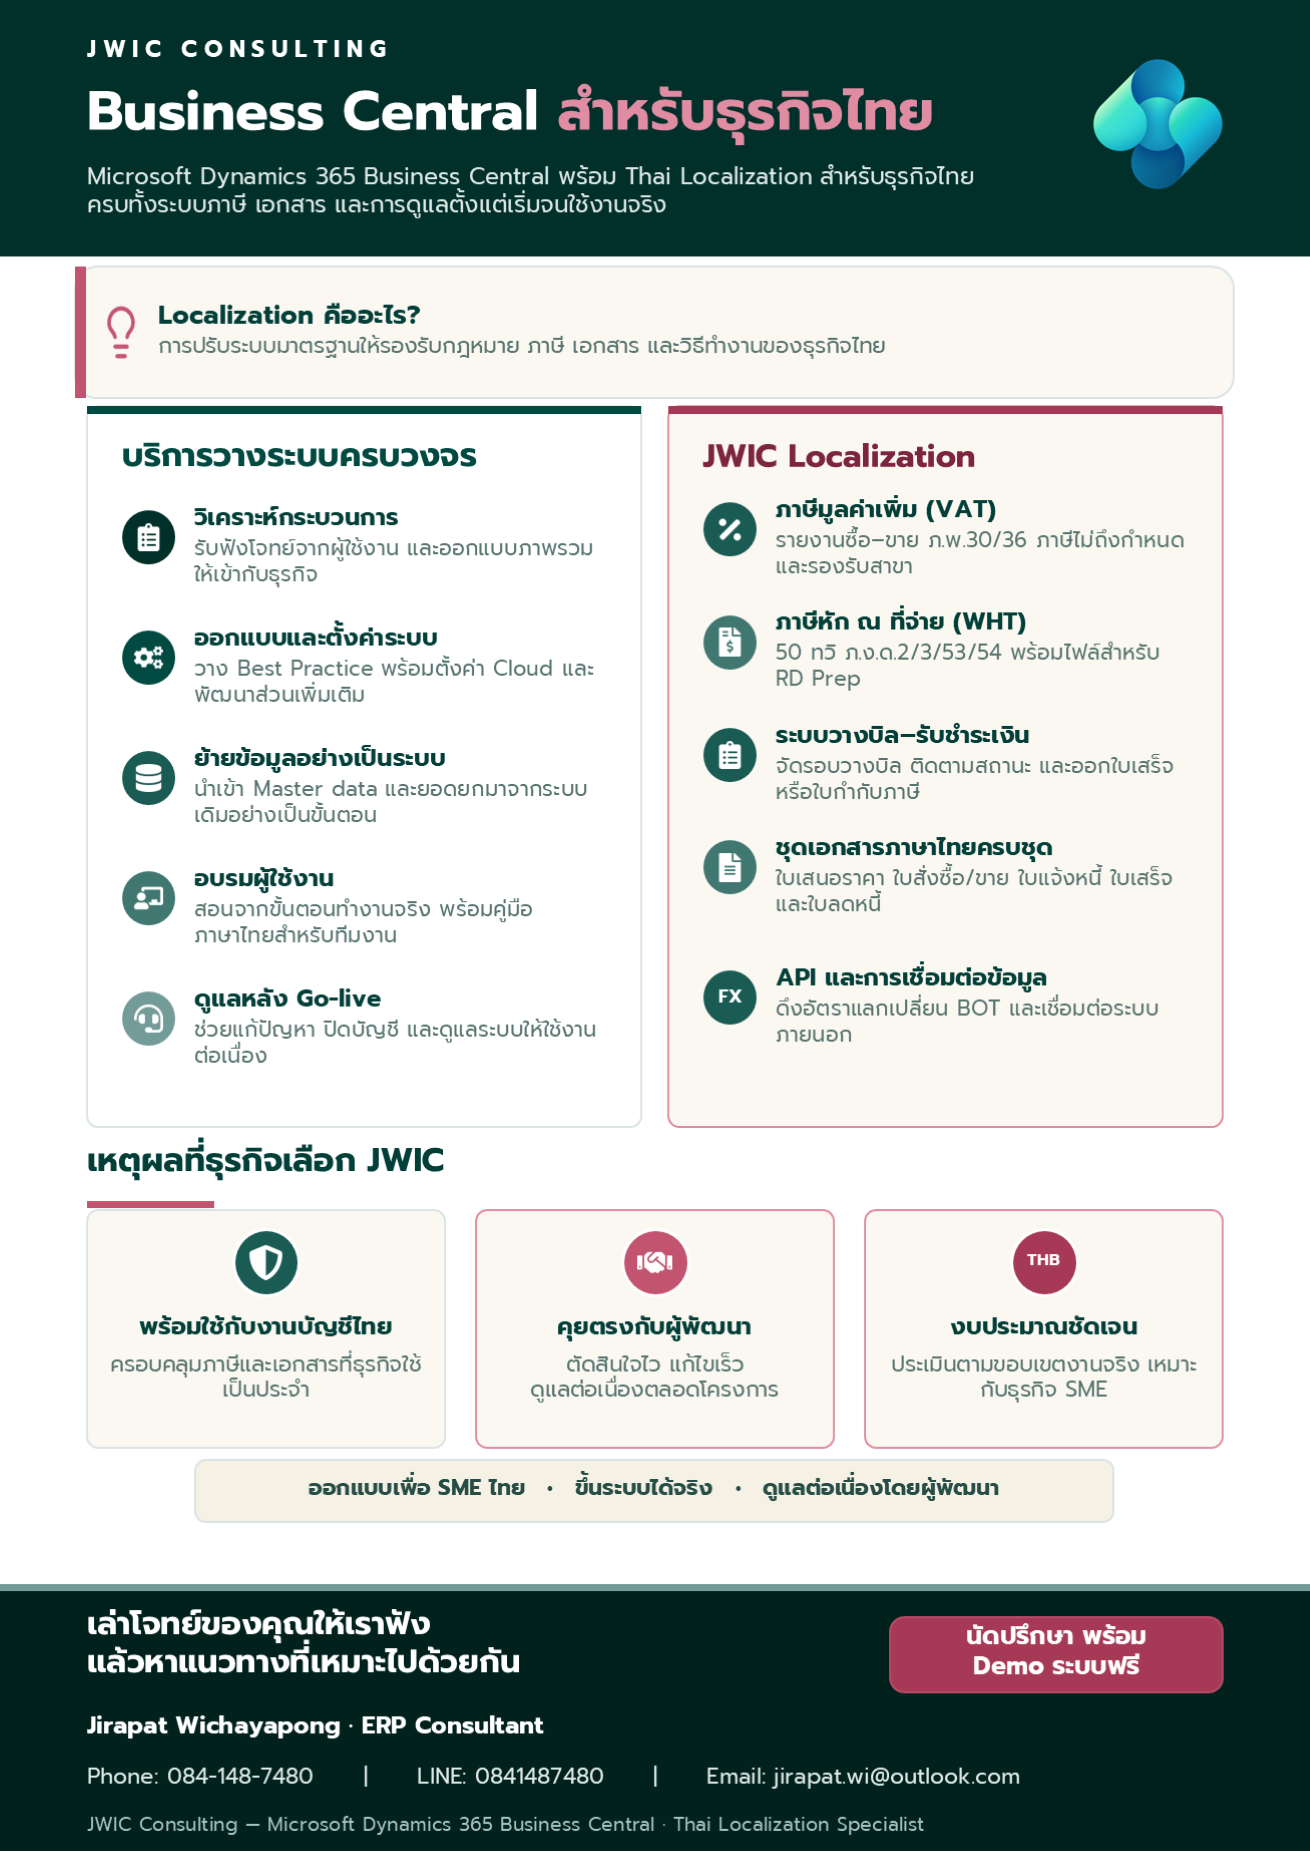
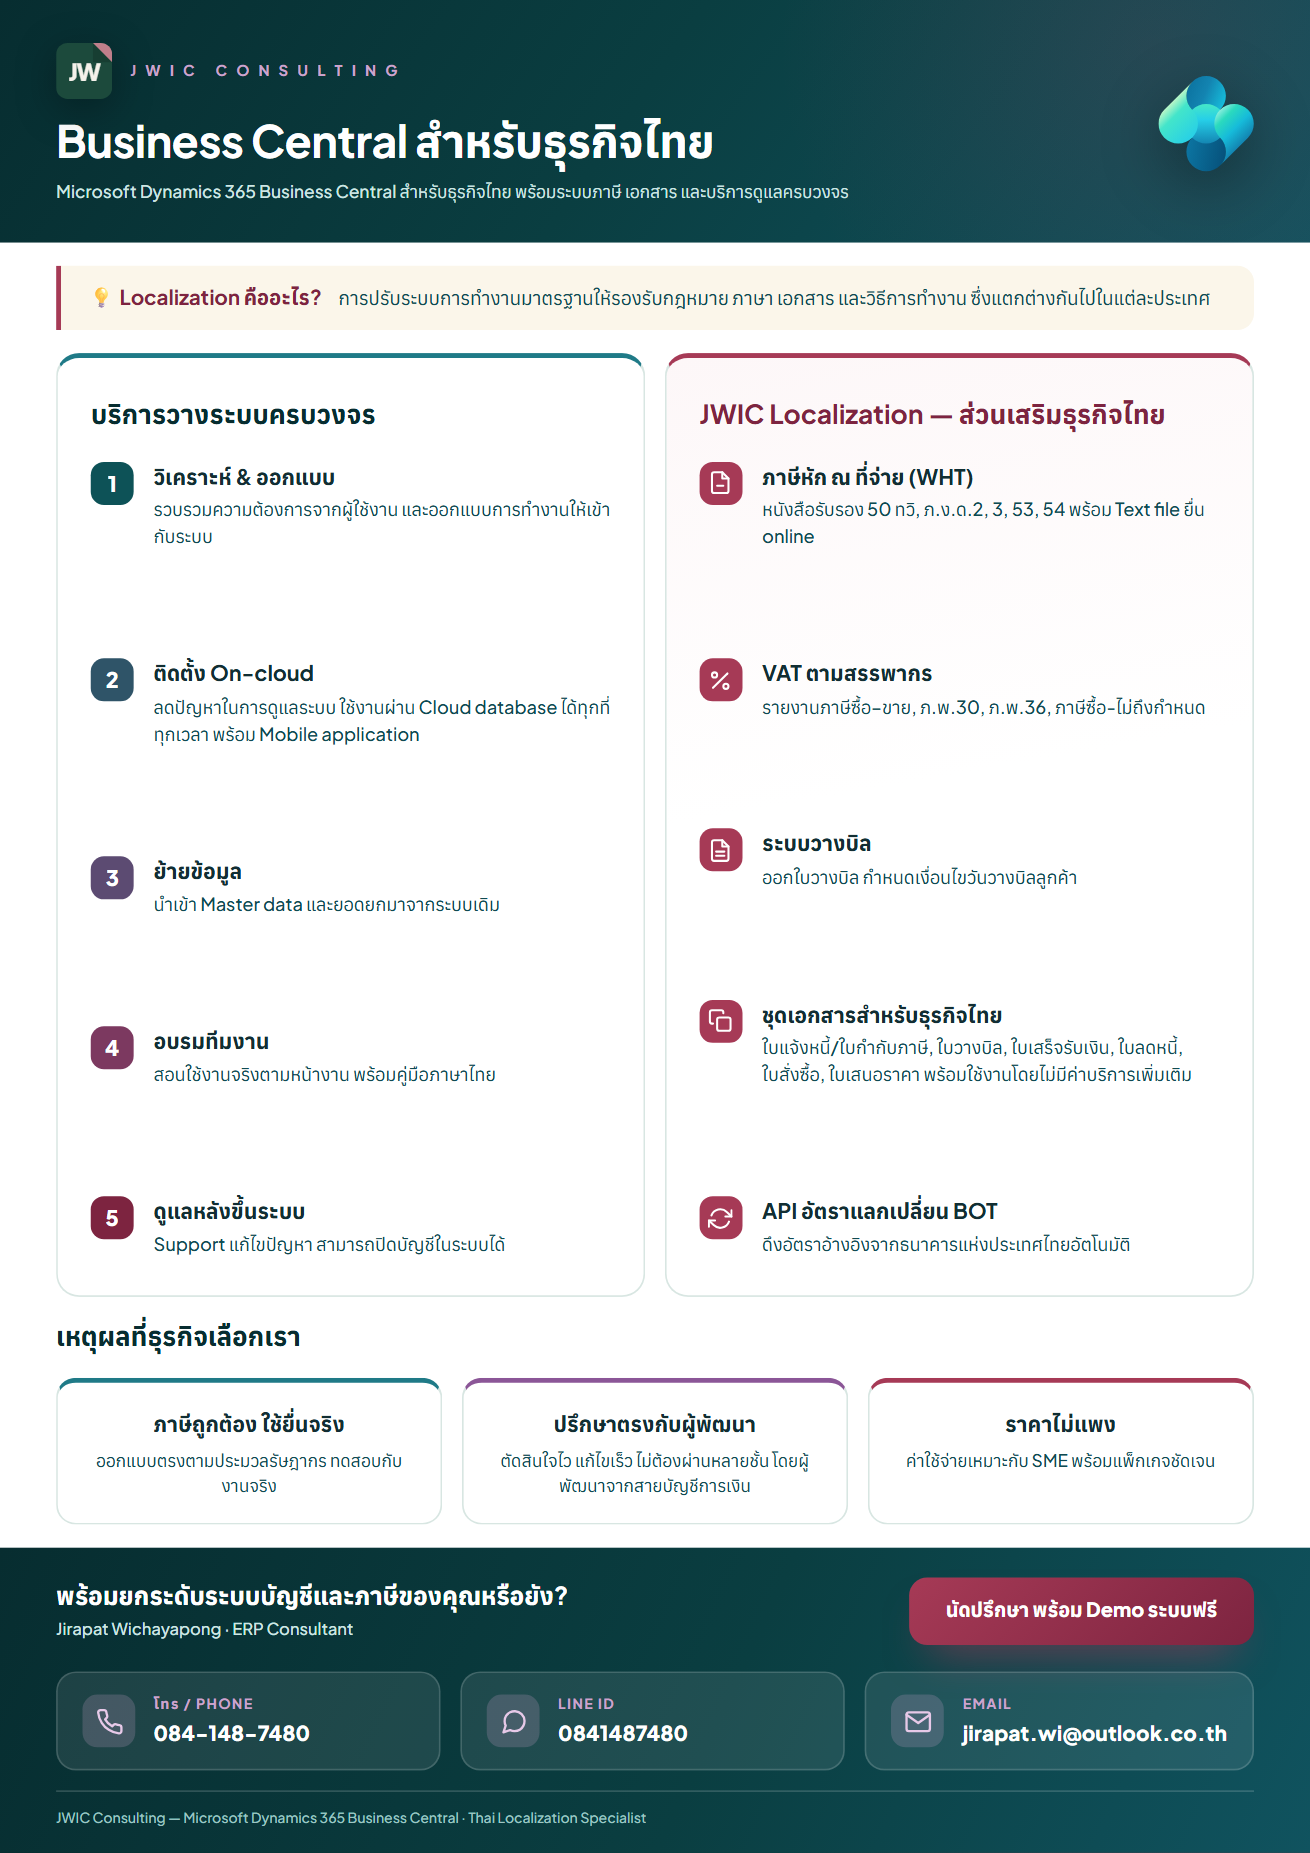
assets: เรนเดอร์โปสเตอร์ใหม่จาก poster.html (อีเมล @outlook.co.th) + driver รองรับ --dpr/--format

diff --git a/index.html b/index.html
@@ -2233,7 +2233,7 @@
       </div>
       <figure class="poster">
         <a href="img/jh-poster.png" target="_blank" rel="noopener">
-          <img src="img/jh-poster.webp" alt="โปสเตอร์สรุปบริการ — Business Central สำหรับธุรกิจไทย พร้อมระบบภาษี เอกสาร และบริการดูแลครบวงจร" loading="lazy" width="1310" height="1852">
+          <img src="img/jh-poster.webp" alt="โปสเตอร์สรุปบริการ — Business Central สำหรับธุรกิจไทย พร้อมระบบภาษี เอกสาร และบริการดูแลครบวงจร" loading="lazy" width="1310" height="1853">
         </a>
         <figcaption>คลิกเพื่อดูรายละเอียดบริการฉบับเต็ม</figcaption>
       </figure>
